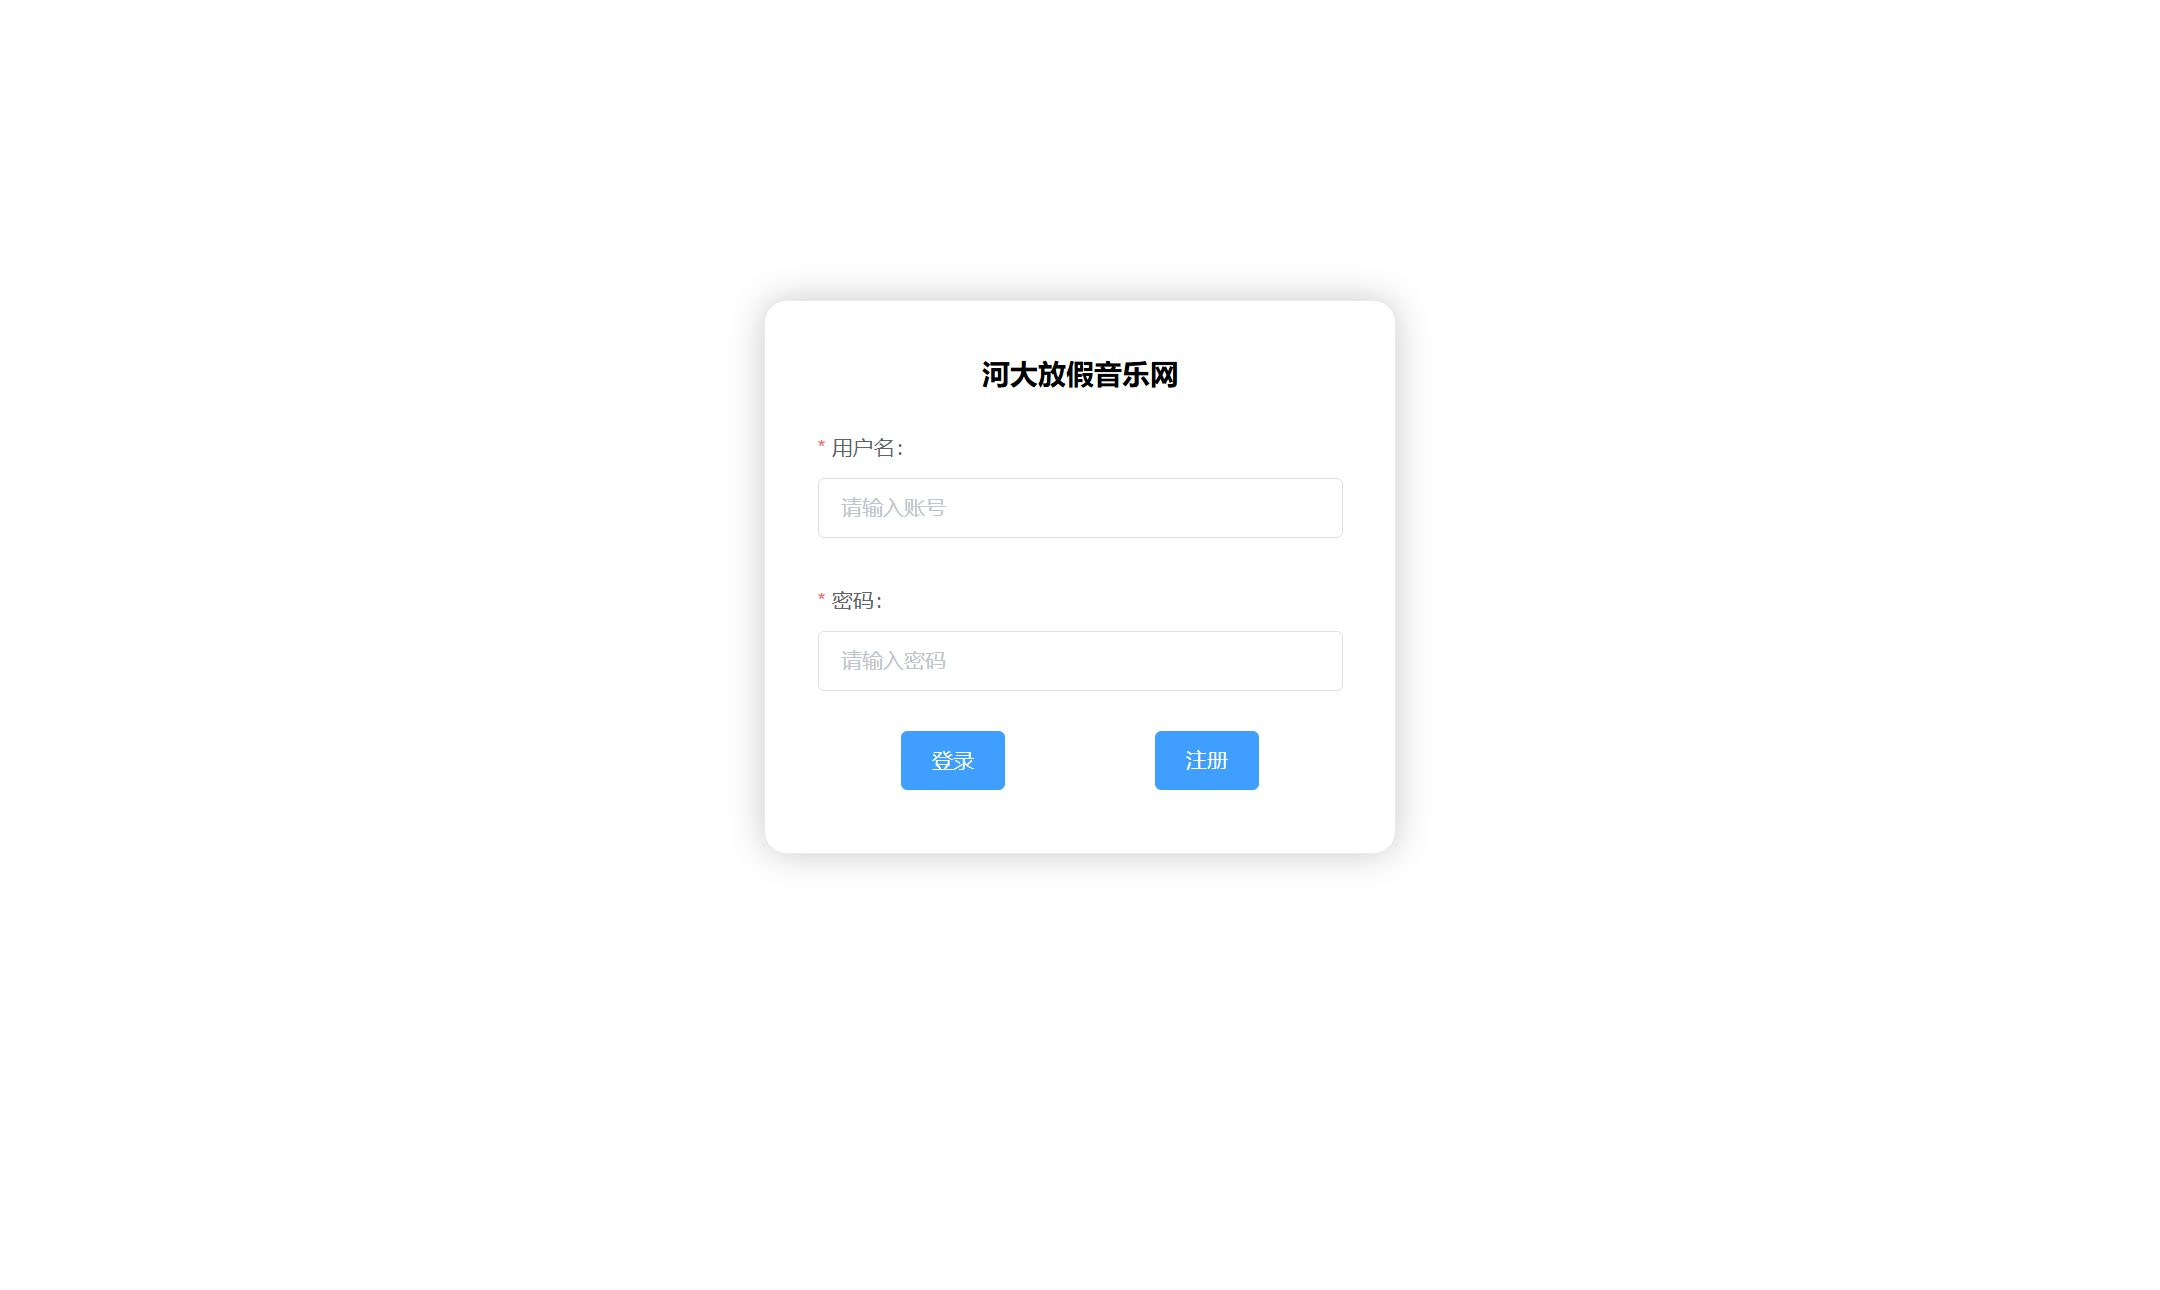
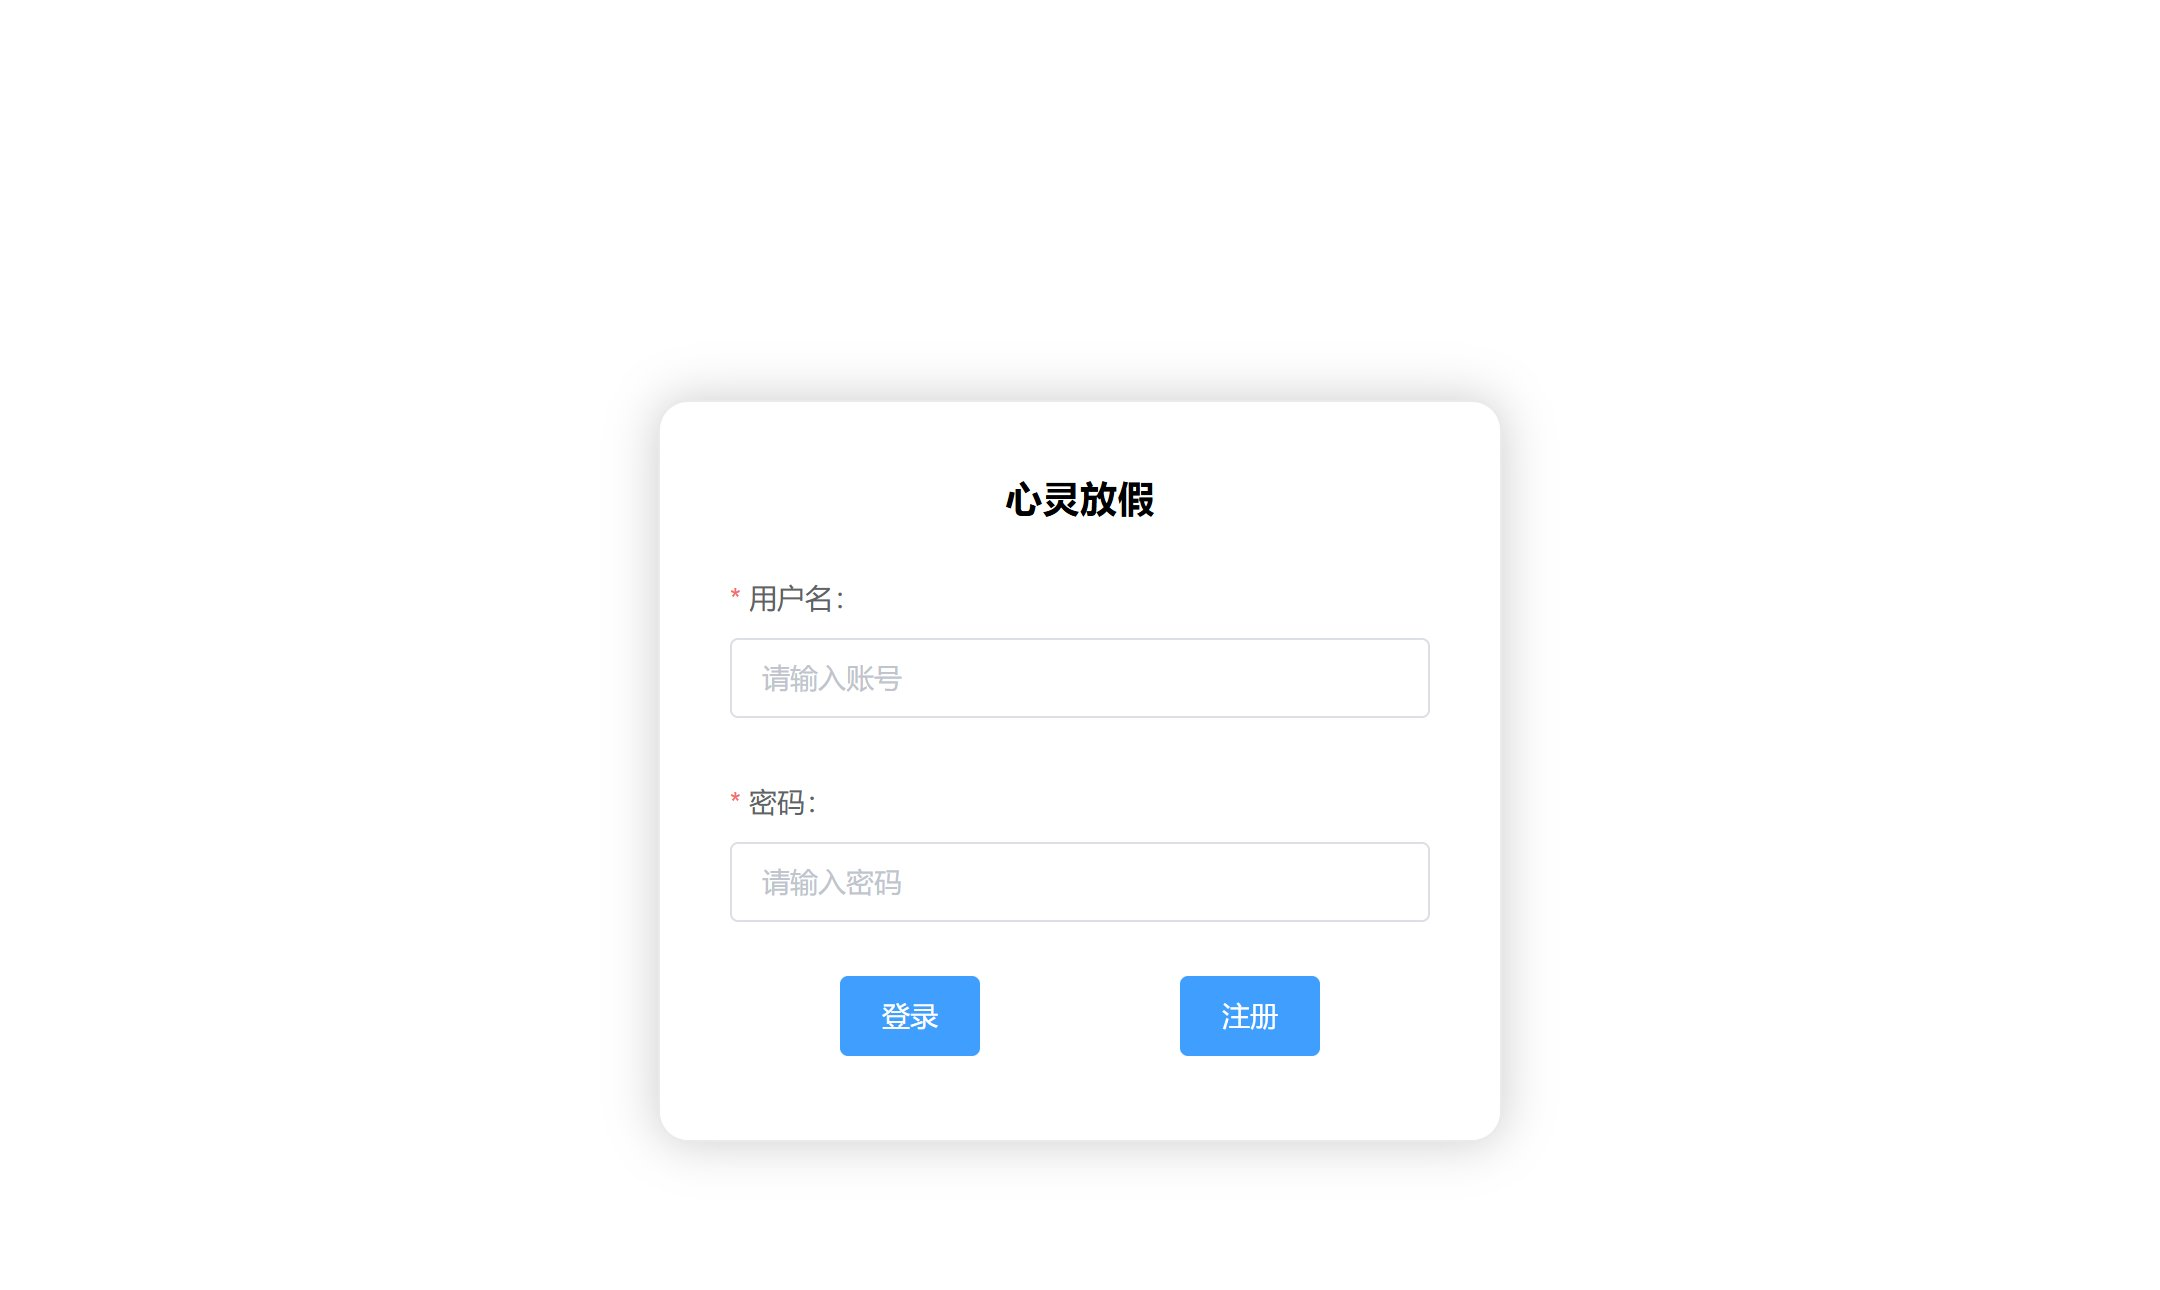
refactor: 站点更名「河大放假音乐网」→「心灵放假」
- 登录页标题、README 标题同步
- vue.config.js 增加 pages.title，浏览器标签页不再显示 my_app
- 重截登录页截图

diff --git a/music-web-vue2/src/views/loginPage.vue b/music-web-vue2/src/views/loginPage.vue
@@ -41,7 +41,7 @@
     </el-dialog>
 
     <el-form ref="form_login" class="login-container" :model="form_login" :rules="rules_login">
-      <h3 class="login_title">河大放假音乐网</h3>
+      <h3 class="login_title">心灵放假</h3>
       <el-form-item label="用户名：" prop="name">
         <el-input v-model="form_login.name" placeholder="请输入账号"></el-input>
       </el-form-item>

diff --git a/music-web-vue2/vue.config.js b/music-web-vue2/vue.config.js
@@ -1,5 +1,11 @@
 const { defineConfig } = require('@vue/cli-service')
 module.exports = defineConfig({
   transpileDependencies: true,
-  lintOnSave:false   //关闭eslint校验
+  lintOnSave:false,   //关闭eslint校验
+  pages: {
+    index: {
+      entry: "src/main.js",
+      title: "心灵放假"
+    }
+  }
 })

diff --git a/README.md b/README.md
@@ -1,4 +1,4 @@
-# 河大放假音乐网 · music-platform
+# 心灵放假 · music-platform
 
 一个前后端分离的音乐网站：**Vue2 前端 + Flask 后端 + MySQL**，歌曲与歌单数据来自第三方网易云音乐 API。
 
